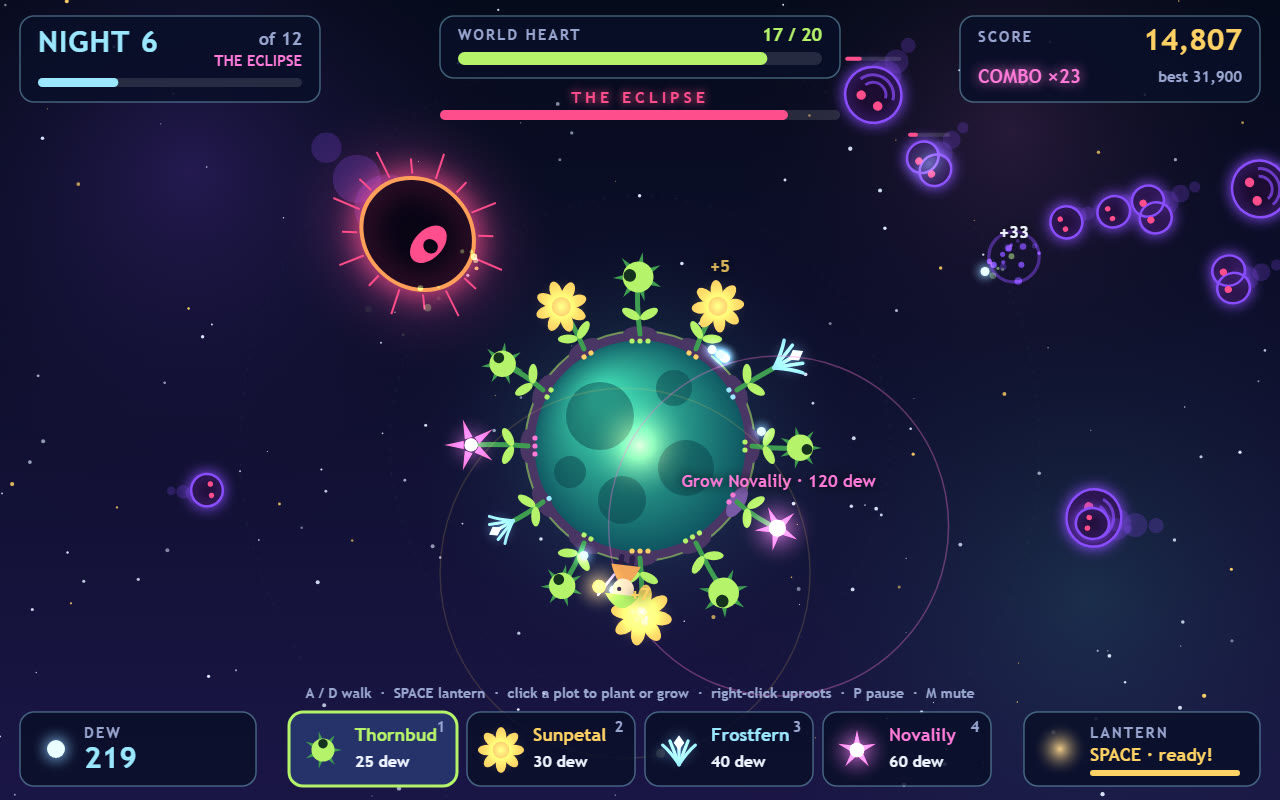
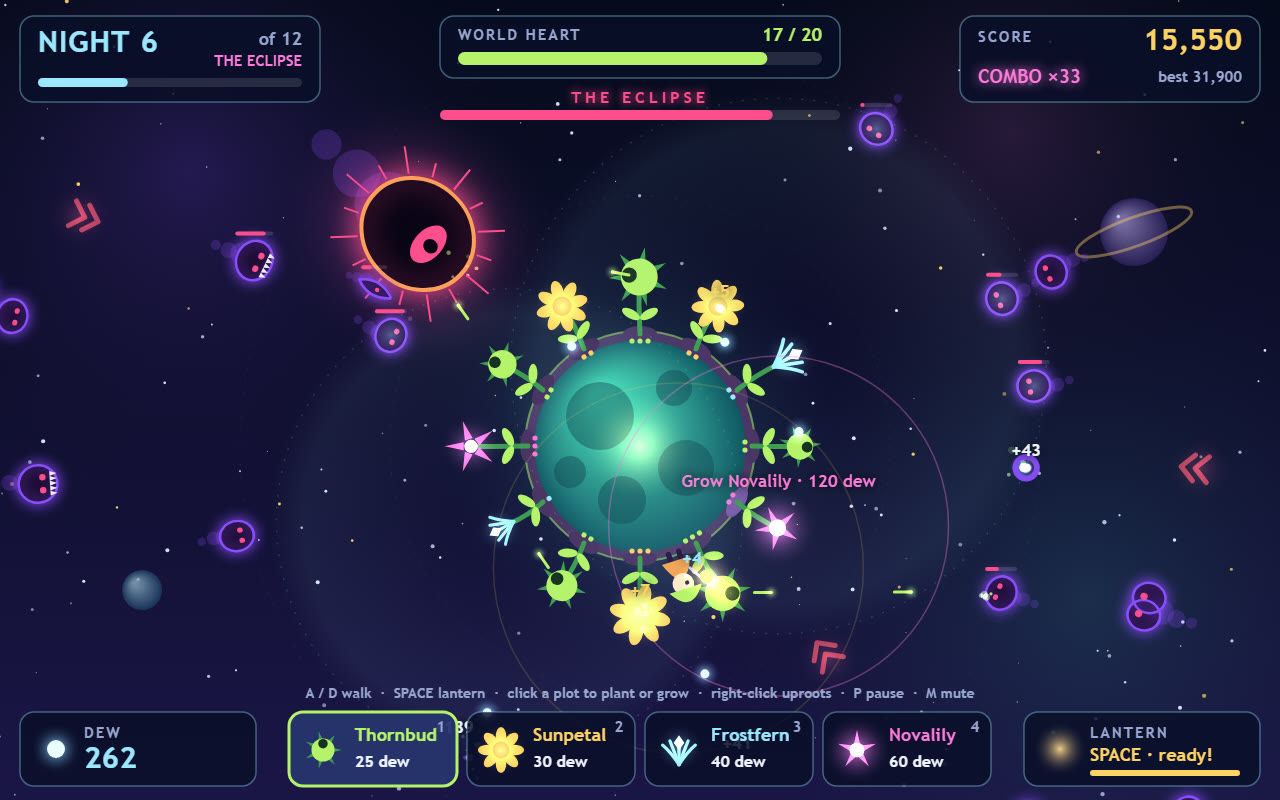
Polish: night map and threat intel, front warnings, coaching hints, frost aura, far moons, new screenshots

diff --git a/game/src/render/screens.js b/game/src/render/screens.js
@@ -1,7 +1,8 @@
 // Full-screen layers over the garden: the title, the boon choice, the pause veil and the results.
 
-import { COLORS, NIGHTS, SEEDS, SEED_ORDER, VIEW } from '../config.js';
+import { BOSS_NIGHTS, COLORS, NIGHTS, SEEDS, SEED_ORDER, VIEW } from '../config.js';
 import { gardenerRank } from '../simulation.js';
+import { newThreat, nightName } from '../waves.js';
 import { glowDot, panel, paragraph, write } from './brush.js';
 import { drawSeedIcon } from './garden.js';
 
@@ -56,7 +57,7 @@ export function drawTitle(ctx, game) {
   });
 
   const pulse = 0.85 + 0.15 * Math.sin(game.time * 4);
-  panel(ctx, MIDDLE - 250, 684, 500, 58, { fill: 'rgba(255, 209, 102, 0.16)', edge: COLORS.gold, radius: 29, line: 2.5 });
+  panel(ctx, MIDDLE - 250, 684, 500, 58, { fill: 'rgba(54, 40, 12, 0.94)', edge: COLORS.gold, radius: 29, line: 2.5 });
   write(ctx, 'CLICK or press ENTER to begin', MIDDLE, 714, { size: 26, weight: 800, align: 'center', color: COLORS.gold, alpha: pulse, glow: COLORS.gold });
   write(ctx, game.best > 0 ? `Best garden: ${game.best.toLocaleString('en-US')} points` : 'Twelve nights · four seeds · eleven boons · two eclipses', MIDDLE, 768, { size: 17, align: 'center', color: COLORS.dim });
 }
@@ -90,8 +91,42 @@ export function drawBoonChoice(ctx, game, pointer) {
     write(ctx, boon.name, cx, top + 166, { size: 28, weight: 800, align: 'center', color: tint });
     paragraph(ctx, boon.text, cx, top + 212, card.width - 48, { size: 19, color: COLORS.ink });
   }
-  write(ctx, 'Click a card, or press 1, 2 or 3', MIDDLE, 610, { size: 22, weight: 700, align: 'center', color: COLORS.dim });
-  write(ctx, `Next: night ${game.night + 1} of ${NIGHTS}`, MIDDLE, 646, { size: 18, align: 'center', color: COLORS.nova });
+  write(ctx, 'Click a card, or press 1, 2 or 3', MIDDLE, 584, { size: 20, weight: 700, align: 'center', color: COLORS.dim });
+  drawNightPath(ctx, game);
+}
+
+// The road to dawn: twelve nights in a row, the ones survived lit, the Eclipse nights marked, and what comes next.
+function drawNightPath(ctx, game) {
+  const spacing = 62;
+  const left = MIDDLE - ((NIGHTS - 1) * spacing) / 2;
+  const y = 632;
+  ctx.strokeStyle = 'rgba(155, 231, 255, 0.3)';
+  ctx.lineWidth = 3;
+  ctx.beginPath();
+  ctx.moveTo(left, y);
+  ctx.lineTo(left + (NIGHTS - 1) * spacing, y);
+  ctx.stroke();
+  for (let night = 1; night <= NIGHTS; night++) {
+    const x = left + (night - 1) * spacing;
+    const boss = BOSS_NIGHTS.includes(night);
+    const done = night <= game.night;
+    const next = night === game.night + 1;
+    const radius = boss ? 17 : 12;
+    if (next) glowDot(ctx, x, y, 40, COLORS.nova, 0.6 + 0.3 * Math.sin(game.time * 5));
+    ctx.fillStyle = done ? COLORS.gold : boss ? '#0a0416' : '#1a2152';
+    ctx.strokeStyle = boss ? COLORS.eye : next ? COLORS.nova : done ? COLORS.gold : COLORS.panelEdge;
+    ctx.lineWidth = boss || next ? 3 : 2;
+    ctx.beginPath();
+    ctx.arc(x, y, radius, 0, Math.PI * 2);
+    ctx.fill();
+    ctx.stroke();
+    write(ctx, String(night), x, y + 1, { size: 13, weight: 800, align: 'center', color: done ? '#2b1d4a' : boss ? COLORS.eye : COLORS.dim });
+  }
+  write(ctx, 'DUSK', left - 44, y, { size: 13, weight: 800, align: 'center', color: COLORS.dim, spacing: 2 });
+  write(ctx, 'DAWN', left + (NIGHTS - 1) * spacing + 46, y, { size: 13, weight: 800, align: 'center', color: COLORS.gold, spacing: 2 });
+  const threat = newThreat(game.night + 1);
+  const intel = threat ? `  ·  new: ${threat.name}, ${threat.lore}` : '';
+  write(ctx, `Next — night ${game.night + 1}: ${nightName(game.night + 1)}${intel}`, MIDDLE, 672, { size: 17, weight: 700, align: 'center', color: COLORS.nova });
 }
 
 export function drawPause(ctx) {
@@ -130,6 +165,6 @@ export function drawResults(ctx, game) {
   });
 
   const pulse = 0.85 + 0.15 * Math.sin(game.time * 4);
-  panel(ctx, MIDDLE - 290, 632, 580, 60, { fill: 'rgba(255, 209, 102, 0.16)', edge: COLORS.gold, radius: 30, line: 2.5 });
+  panel(ctx, MIDDLE - 290, 632, 580, 60, { fill: 'rgba(54, 40, 12, 0.94)', edge: COLORS.gold, radius: 30, line: 2.5 });
   write(ctx, 'Press R or CLICK to plant a new garden', MIDDLE, 663, { size: 26, weight: 800, align: 'center', color: COLORS.gold, alpha: pulse, glow: COLORS.gold });
 }

diff --git a/game/src/render/hud.js b/game/src/render/hud.js
@@ -1,8 +1,8 @@
 // The heads-up display during play: night, world heart, score and combo, dew, the seed bar and the lantern.
 
-import { COLORS, NIGHTS, SEEDS, SEED_ORDER, VIEW } from '../config.js';
+import { COLORS, NIGHTS, PLANET, SEEDS, SEED_ORDER, VIEW } from '../config.js';
 import { pulseCooldown } from '../gardener.js';
-import { nightName, nightProgress } from '../waves.js';
+import { newThreat, nightName, nightProgress } from '../waves.js';
 import { bar, glowDot, panel, write } from './brush.js';
 import { drawSeedIcon } from './garden.js';
 
@@ -15,6 +15,8 @@ export function seedCardRects() {
 }
 
 export function drawHud(ctx, game) {
+  drawFrontWarnings(ctx, game);
+  drawCoach(ctx, game);
   drawNightPanel(ctx, game);
   drawHeartPanel(ctx, game);
   drawScorePanel(ctx, game);
@@ -23,7 +25,50 @@ export function drawHud(ctx, game) {
   drawLanternPanel(ctx, game);
   drawBossBar(ctx, game);
   drawBanner(ctx, game);
-  write(ctx, 'A / D walk  ·  SPACE lantern  ·  click a plot to plant or grow  ·  right-click uproots  ·  P pause  ·  M mute', VIEW.width / 2, 694, { size: 14, align: 'center', color: COLORS.dim });
+  if (game.mode === 'playing') {
+    write(ctx, 'A / D walk  ·  SPACE lantern  ·  click a plot to plant or grow  ·  right-click uproots  ·  P pause  ·  M mute', VIEW.width / 2, 694, { size: 14, align: 'center', color: COLORS.dim });
+  }
+}
+
+// Red chevrons at the edge of the sky show where tonight's Gloam is coming from, while more are due.
+function drawFrontWarnings(ctx, game) {
+  if (game.mode !== 'playing' || game.wave.queue.length === 0) return;
+  const beat = 0.8 + 0.2 * Math.sin(game.time * 6);
+  for (const front of game.wave.fronts) {
+    const reach = Math.min(560 / Math.abs(Math.cos(front) || 0.001), 258 / Math.abs(Math.sin(front) || 0.001));
+    const x = PLANET.x + Math.cos(front) * reach;
+    const y = PLANET.y - 46 + Math.sin(front) * reach;
+    ctx.save();
+    ctx.translate(x, y);
+    ctx.rotate(front + Math.PI);
+    ctx.globalAlpha = beat;
+    ctx.strokeStyle = COLORS.danger;
+    ctx.lineWidth = 5;
+    ctx.lineCap = 'round';
+    ctx.lineJoin = 'round';
+    for (const step of [0, 14]) {
+      ctx.beginPath();
+      ctx.moveTo(step - 8, -13);
+      ctx.lineTo(step + 5, 0);
+      ctx.lineTo(step - 8, 13);
+      ctx.stroke();
+    }
+    ctx.restore();
+    glowDot(ctx, x, y, 34, COLORS.danger, 0.35 * beat);
+  }
+}
+
+// First-night coaching: one short line telling a new player what to do next.
+function drawCoach(ctx, game) {
+  if (game.mode !== 'playing' || game.night !== 1 || game.banner.timer > 0) return;
+  let tip = '';
+  if (game.stats.planted === 0) tip = 'Click a plot on the little world to plant your first Thornbud';
+  else if (game.stats.planted < 3) tip = 'Plant where the red arrows point — that is where the Gloam will fall';
+  else if (game.stats.dewGathered === 0) tip = 'Walk with A / D to gather fallen dew  ·  SPACE swings the lantern';
+  if (!tip) return;
+  const width = 660;
+  panel(ctx, VIEW.width / 2 - width / 2, 160, width, 44, { radius: 22, edge: COLORS.gold });
+  write(ctx, tip, VIEW.width / 2, 183, { size: 19, weight: 700, align: 'center', color: COLORS.gold, alpha: 0.8 + 0.2 * Math.sin(game.time * 5) });
 }
 
 function drawNightPanel(ctx, game) {
@@ -103,4 +148,6 @@ function drawBanner(ctx, game) {
   const alpha = Math.min(1, game.banner.timer / 0.5);
   write(ctx, game.banner.text, VIEW.width / 2, 176, { size: 46, weight: 800, align: 'center', color: COLORS.ink, spacing: 6, alpha, glow: COLORS.gloamEdge });
   write(ctx, game.banner.sub, VIEW.width / 2, 216, { size: 22, align: 'center', color: COLORS.nova, alpha, spacing: 2 });
+  const threat = newThreat(game.night);
+  if (threat) write(ctx, `New tonight: ${threat.name} — ${threat.lore}`, VIEW.width / 2, 250, { size: 18, align: 'center', color: COLORS.ink, alpha });
 }

diff --git a/game/src/render/garden.js b/game/src/render/garden.js
@@ -62,6 +62,20 @@ export function drawPlots(ctx, game) {
       ctx.beginPath();
       ctx.ellipse(0, 0, 17, 8, 0, 0, TAU);
       ctx.fill();
+      if (!plot.plant && !hovered && game.mode === 'playing') {
+        // An empty plot beckons with a faint plus sign.
+        ctx.globalAlpha = 0.45 + 0.25 * Math.sin(game.time * 3 + plot.index);
+        ctx.strokeStyle = COLORS.ice;
+        ctx.lineWidth = 2.5;
+        ctx.lineCap = 'round';
+        ctx.beginPath();
+        ctx.moveTo(-6, -18);
+        ctx.lineTo(6, -18);
+        ctx.moveTo(0, -24);
+        ctx.lineTo(0, -12);
+        ctx.stroke();
+        ctx.globalAlpha = 1;
+      }
       if (hovered && !plot.plant) {
         ctx.strokeStyle = SEEDS[game.selectedSeed].color;
         ctx.lineWidth = 2;
@@ -112,6 +126,7 @@ function drawPlant(ctx, game, plot, hovered) {
 
   const tip = plantTip(plot);
   if (tended) glowDot(ctx, tip.x, tip.y, 30, COLORS.gold, 0.5);
+  if (plant.kind === 'frost') drawFrostAura(ctx, game, tip, seed.range[plant.level - 1] * (1 + game.boons.frostPower * 0.2));
   for (let pip = 0; pip < plant.level; pip++) {
     inPlotFrame(ctx, plot, () => {
       ctx.fillStyle = seed.color;
@@ -137,6 +152,26 @@ function drawPlant(ctx, game, plot, hovered) {
       ctx.globalAlpha = 1;
     }
   }
+}
+
+// A Frostfern's chill hangs in the air as a pale, slowly breathing disc out to its reach.
+function drawFrostAura(ctx, game, tip, reach) {
+  const breath = 0.85 + 0.15 * Math.sin(game.time * 1.6);
+  const mist = ctx.createRadialGradient(tip.x, tip.y, reach * 0.2, tip.x, tip.y, reach);
+  mist.addColorStop(0, 'rgba(155, 231, 255, 0.0)');
+  mist.addColorStop(0.82, `rgba(155, 231, 255, ${0.085 * breath})`);
+  mist.addColorStop(1, 'rgba(155, 231, 255, 0)');
+  ctx.fillStyle = mist;
+  ctx.beginPath();
+  ctx.arc(tip.x, tip.y, reach, 0, TAU);
+  ctx.fill();
+  ctx.strokeStyle = `rgba(155, 231, 255, ${0.22 * breath})`;
+  ctx.lineWidth = 1.5;
+  ctx.setLineDash([2, 10]);
+  ctx.beginPath();
+  ctx.arc(tip.x, tip.y, reach * 0.97, 0, TAU);
+  ctx.stroke();
+  ctx.setLineDash([]);
 }
 
 function drawThornbud(ctx, plant, plot) {

diff --git a/game/src/config.js b/game/src/config.js
@@ -54,12 +54,12 @@ export const SEED_ORDER = ['thorn', 'sun', 'frost', 'nova'];
 
 // The Gloam: every creature that falls on the garden. threat is its price in a night's budget.
 export const GLOAM = {
-  mote: { name: 'Mote', health: 3, speed: 30, size: 16, bite: 1, dew: 2, score: 10, threat: 1, fromNight: 1 },
-  darter: { name: 'Darter', health: 2, speed: 60, size: 13, bite: 1, dew: 2, score: 15, threat: 1.2, fromNight: 2, weave: 1.5 },
-  gnawer: { name: 'Gnawer', health: 7, speed: 36, size: 19, bite: 2, dew: 4, score: 25, threat: 2.2, fromNight: 3, chews: true },
-  twin: { name: 'Twin Shade', health: 8, speed: 26, size: 21, bite: 2, dew: 3, score: 30, threat: 2.6, fromNight: 5, splits: 2 },
-  husk: { name: 'Husk', health: 16, speed: 17, size: 28, bite: 4, dew: 6, score: 45, threat: 4, fromNight: 4 },
-  eclipse: { name: 'The Eclipse', health: 150, speed: 9, size: 56, bite: 12, dew: 40, score: 500, threat: 0, fromNight: 99, orbit: 0.2, broods: 2.4 },
+  mote: { name: 'Mote', health: 3, speed: 30, size: 16, bite: 1, dew: 2, score: 10, threat: 1, fromNight: 1, lore: 'drifts straight for the world heart' },
+  darter: { name: 'Darter', health: 2, speed: 60, size: 13, bite: 1, dew: 2, score: 15, threat: 1.2, fromNight: 2, weave: 1.5, lore: 'fast and weaving, hard for thorns to hit' },
+  gnawer: { name: 'Gnawer', health: 7, speed: 36, size: 19, bite: 2, dew: 4, score: 25, threat: 2.2, fromNight: 3, chews: true, lore: 'lands on a plant and eats it: pulse it off!' },
+  twin: { name: 'Twin Shade', health: 8, speed: 26, size: 21, bite: 2, dew: 3, score: 30, threat: 2.6, fromNight: 5, splits: 2, lore: 'splits into two Motes when banished' },
+  husk: { name: 'Husk', health: 16, speed: 17, size: 28, bite: 4, dew: 6, score: 45, threat: 4, fromNight: 4, lore: 'slow and armoured, with a heavy bite' },
+  eclipse: { name: 'The Eclipse', health: 150, speed: 9, size: 56, bite: 12, dew: 40, score: 500, threat: 0, fromNight: 99, orbit: 0.2, broods: 2.4, lore: 'a boss that circles the world and broods Motes' },
 };
 export const BOSS_NIGHTS = [6, 12];
 

diff --git a/game/src/render/sky.js b/game/src/render/sky.js
@@ -17,6 +17,35 @@ const NEBULAE = [
   { x: 1010, y: 130, radius: 300, color: 'rgba(255, 122, 217, 0.12)' },
 ];
 
+// Two far-off moons, one ringed, drift a little so the sky never sits quite still.
+function drawFarMoons(ctx, game) {
+  const drift = Math.sin(game.time * 0.05) * 6;
+  const ringed = { x: 1128 + drift, y: 232, radius: 34 };
+  ctx.save();
+  ctx.globalAlpha = 0.55;
+  const shade = ctx.createRadialGradient(ringed.x - 12, ringed.y - 12, 4, ringed.x, ringed.y, ringed.radius);
+  shade.addColorStop(0, '#c9b8ff');
+  shade.addColorStop(1, '#3b2a78');
+  ctx.fillStyle = shade;
+  ctx.beginPath();
+  ctx.arc(ringed.x, ringed.y, ringed.radius, 0, TAU);
+  ctx.fill();
+  ctx.strokeStyle = 'rgba(255, 209, 102, 0.75)';
+  ctx.lineWidth = 3;
+  ctx.beginPath();
+  ctx.ellipse(ringed.x, ringed.y, ringed.radius * 1.8, ringed.radius * 0.42, -0.35, 0, TAU);
+  ctx.stroke();
+  const small = { x: 148 - drift, y: 590, radius: 20 };
+  const frost = ctx.createRadialGradient(small.x - 7, small.y - 7, 2, small.x, small.y, small.radius);
+  frost.addColorStop(0, '#bff3ff');
+  frost.addColorStop(1, '#1f4d73');
+  ctx.fillStyle = frost;
+  ctx.beginPath();
+  ctx.arc(small.x, small.y, small.radius, 0, TAU);
+  ctx.fill();
+  ctx.restore();
+}
+
 export function drawSky(ctx, game) {
   const sky = ctx.createLinearGradient(0, 0, 0, VIEW.height);
   sky.addColorStop(0, COLORS.skyTop);
@@ -41,6 +70,8 @@ export function drawSky(ctx, game) {
     ctx.fill();
   }
   ctx.globalAlpha = 1;
+
+  drawFarMoons(ctx, game);
 
   // Faint orbit rings show how far the garden's plants can reach.
   ctx.strokeStyle = 'rgba(155, 231, 255, 0.07)';

diff --git a/game/src/waves.js b/game/src/waves.js
@@ -14,6 +14,12 @@ export function nightName(night) {
   return NIGHT_NAMES[night - 1] ?? 'Endless Dark';
 }
 
+// The creature a night brings for the first time (the Eclipse on boss nights), or null.
+export function newThreat(night) {
+  if (BOSS_NIGHTS.includes(night)) return GLOAM.eclipse;
+  return Object.values(GLOAM).find((breed) => breed.fromNight === night && night > 1) ?? null;
+}
+
 // A night is a queue of { at, kind, angle }: creatures arrive along a few fronts, so where you plant matters.
 export function buildNight(night) {
   const queue = [];
@@ -31,14 +37,15 @@ export function buildNight(night) {
   }
   if (BOSS_NIGHTS.includes(night)) queue.push({ at: 5, kind: 'eclipse', angle: fronts[0] });
   queue.sort((a, b) => a.at - b.at);
-  return queue;
+  return { queue, fronts };
 }
 
 export function startNight(game, night) {
   game.night = night;
   game.mode = 'playing';
-  const queue = buildNight(night);
-  game.wave = { queue, clock: 0, total: queue.length, spawned: 0 };
+  const { queue, fronts } = buildNight(night);
+  // fronts are kept so the HUD can warn where tonight's Gloam will come from.
+  game.wave = { queue, fronts, clock: 0, total: queue.length, spawned: 0 };
   showBanner(game, `NIGHT ${night} OF ${NIGHTS}`, nightName(night));
   game.sound('night');
 }

diff --git a/game/src/shots.js b/game/src/shots.js
@@ -19,7 +19,8 @@ const GARDEN = [
 export function shotRequest() {
   const query = new URLSearchParams(window.location.search);
   const name = query.get('shot');
-  return name ? { name, seed: Number(query.get('seed')) || 1, seconds: Number(query.get('seconds')) || 20 } : null;
+  // live=1 keeps playing from the staged moment, which is how the later nights are play-tested.
+  return name ? { name, seed: Number(query.get('seed')) || 1, seconds: Number(query.get('seconds')) || 20, live: query.get('live') === '1' } : null;
 }
 
 // Grow a mid-run garden the way a player would have by this night: plant, then upgrade.

diff --git a/game/src/state.js b/game/src/state.js
@@ -28,7 +28,7 @@ export function resetRun(game) {
   game.floaters = [];
   game.selectedSeed = 'thorn';
   game.hoverPlot = -1;
-  game.wave = { queue: [], clock: 0, total: 0, spawned: 0 };
+  game.wave = { queue: [], fronts: [], clock: 0, total: 0, spawned: 0 };
   game.boons = { thornDamage: 0, dewGain: 1, pulseCooldown: 1, walkSpeed: 1, reach: 1, frostPower: 0, novaRadius: 1, tendBonus: 1, sunGain: 1, taken: [] };
   game.boonChoices = [];
   game.stats = { kills: 0, planted: 0, dewGathered: 0, nights: 0 };

diff --git a/game/src/main.js b/game/src/main.js
@@ -153,6 +153,10 @@ if (shot) {
   stageShot(game, shot);
   render();
   document.title = `Orbloom shot: ${shot.name}`;
+  if (shot.live) {
+    game.sound = playSound;
+    requestAnimationFrame(frame);
+  }
 } else {
   game.best = loadBest();
   seedRandom(Date.now());
